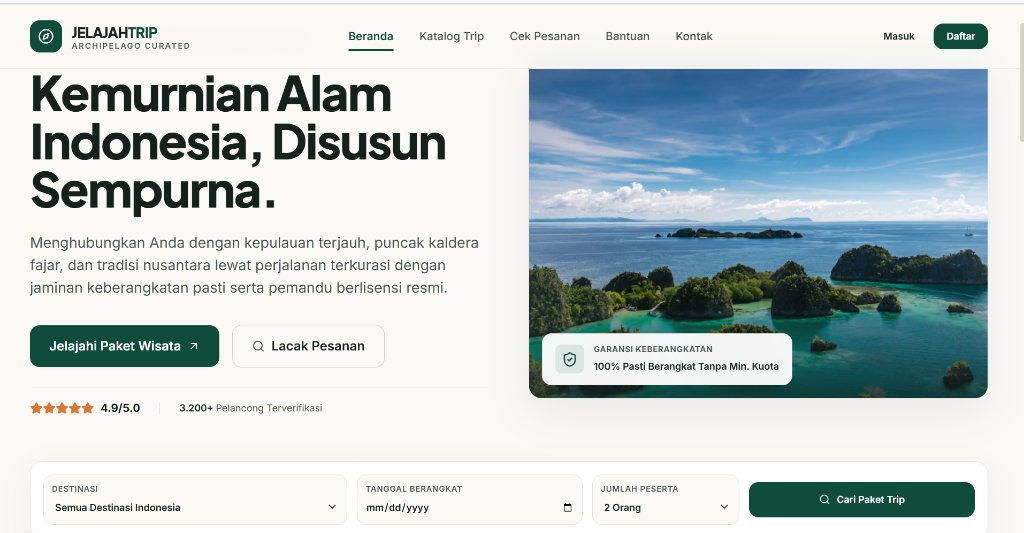
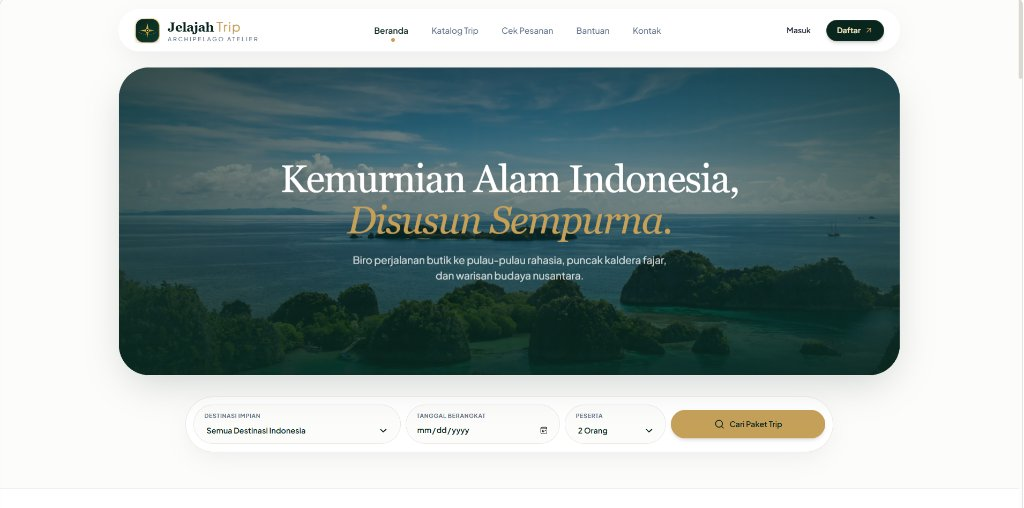
feat(projects): update Jelajah Trip screenshots and add top screenshot carousel on case study

diff --git a/src/components/ui/ProjectGalleryCarousel.tsx b/src/components/ui/ProjectGalleryCarousel.tsx
@@ -1,0 +1,148 @@
+"use client";
+
+import React, { useState, useRef } from "react";
+import { ChevronLeft, ChevronRight } from "lucide-react";
+import { ProjectScreenshot } from "@/types";
+import { ProjectImage } from "@/components/ui/ProjectImage";
+import { cn } from "@/lib/utils";
+
+interface ProjectGalleryCarouselProps {
+  screenshots: ProjectScreenshot[];
+  fallbackImage: string;
+  projectTitle: string;
+}
+
+export const ProjectGalleryCarousel: React.FC<ProjectGalleryCarouselProps> = ({
+  screenshots,
+  fallbackImage,
+  projectTitle,
+}) => {
+  const [activeIndex, setActiveIndex] = useState(0);
+  const touchStartX = useRef<number | null>(null);
+
+  const items: ProjectScreenshot[] =
+    screenshots.length > 0
+      ? screenshots
+      : [
+          {
+            src: fallbackImage,
+            alt: `${projectTitle} preview illustration`,
+            width: 800,
+            height: 450,
+          },
+        ];
+
+  const total = items.length;
+  const current = items[activeIndex] ?? items[0];
+
+  const goTo = (index: number) => {
+    setActiveIndex((index + total) % total);
+  };
+
+  const handleTouchStart = (e: React.TouchEvent) => {
+    touchStartX.current = e.touches[0]?.clientX ?? null;
+  };
+
+  const handleTouchEnd = (e: React.TouchEvent) => {
+    if (touchStartX.current === null || total <= 1) return;
+    const endX = e.changedTouches[0]?.clientX ?? touchStartX.current;
+    const diff = touchStartX.current - endX;
+    if (Math.abs(diff) > 40) {
+      goTo(diff > 0 ? activeIndex + 1 : activeIndex - 1);
+    }
+    touchStartX.current = null;
+  };
+
+  const handleKeyDown = (e: React.KeyboardEvent) => {
+    if (total <= 1) return;
+    if (e.key === "ArrowLeft") {
+      e.preventDefault();
+      goTo(activeIndex - 1);
+    } else if (e.key === "ArrowRight") {
+      e.preventDefault();
+      goTo(activeIndex + 1);
+    }
+  };
+
+  return (
+    <div
+      className="mb-12"
+      tabIndex={total > 1 ? 0 : undefined}
+      onKeyDown={handleKeyDown}
+      aria-roledescription={total > 1 ? "carousel" : undefined}
+      aria-label={`${projectTitle} screenshots`}
+    >
+      <div
+        className="relative aspect-video w-full rounded-2xl overflow-hidden border border-slate-200/90 shadow-sm bg-slate-50 group"
+        onTouchStart={handleTouchStart}
+        onTouchEnd={handleTouchEnd}
+      >
+        <ProjectImage
+          key={current.src}
+          src={current.src}
+          fallbackSrc={fallbackImage}
+          alt={current.alt}
+          width={current.width}
+          height={current.height}
+          sizes="(max-width: 1024px) 100vw, 896px"
+          priority={activeIndex === 0}
+          className="w-full h-full object-contain"
+        />
+
+        {total > 1 && (
+          <>
+            <button
+              type="button"
+              onClick={() => goTo(activeIndex - 1)}
+              aria-label="Previous screenshot"
+              className="absolute left-3 top-1/2 -translate-y-1/2 w-9 h-9 rounded-full bg-white/90 hover:bg-white border border-slate-200/90 text-slate-700 hover:text-slate-900 shadow-sm flex items-center justify-center transition-all cursor-pointer active:scale-95 focus-visible:outline-none focus-visible:ring-2 focus-visible:ring-blue-600"
+            >
+              <ChevronLeft className="w-5 h-5" />
+            </button>
+
+            <button
+              type="button"
+              onClick={() => goTo(activeIndex + 1)}
+              aria-label="Next screenshot"
+              className="absolute right-3 top-1/2 -translate-y-1/2 w-9 h-9 rounded-full bg-white/90 hover:bg-white border border-slate-200/90 text-slate-700 hover:text-slate-900 shadow-sm flex items-center justify-center transition-all cursor-pointer active:scale-95 focus-visible:outline-none focus-visible:ring-2 focus-visible:ring-blue-600"
+            >
+              <ChevronRight className="w-5 h-5" />
+            </button>
+          </>
+        )}
+      </div>
+
+      {total > 1 && (
+        <div className="mt-3 flex flex-col sm:flex-row sm:items-center justify-between gap-2 px-1">
+          <p className="text-xs text-slate-600 font-medium">
+            {current.caption || current.alt}
+          </p>
+
+          <div className="flex items-center gap-3 self-end sm:self-auto">
+            <div className="flex items-center gap-1.5" role="tablist" aria-label="Select screenshot">
+              {items.map((item, idx) => (
+                <button
+                  key={item.src}
+                  type="button"
+                  role="tab"
+                  aria-selected={idx === activeIndex}
+                  aria-label={`View screenshot ${idx + 1} of ${total}`}
+                  onClick={() => goTo(idx)}
+                  className={cn(
+                    "h-2 rounded-full transition-all cursor-pointer focus-visible:outline-none focus-visible:ring-2 focus-visible:ring-blue-600",
+                    idx === activeIndex
+                      ? "w-6 bg-blue-600"
+                      : "w-2 bg-slate-300 hover:bg-slate-400"
+                  )}
+                />
+              ))}
+            </div>
+            <span className="text-xs font-mono text-slate-600">
+              {activeIndex + 1} / {total}
+            </span>
+          </div>
+        </div>
+      )}
+    </div>
+  );
+};

diff --git a/src/app/projects/[slug]/page.tsx b/src/app/projects/[slug]/page.tsx
@@ -13,12 +13,12 @@ import {
   Link2,
 } from "lucide-react";
 import { PROJECTS, getProjectBySlug } from "@/data/portfolio";
-import { getAvailableScreenshots, getPrimaryProjectImage } from "@/lib/assets";
+import { getAvailableScreenshots } from "@/lib/assets";
 import { Navbar } from "@/components/layout/Navbar";
 import { Footer } from "@/components/layout/Footer";
 import { Button } from "@/components/ui/Button";
 import { GithubIcon } from "@/components/ui/Icons";
-import { ProjectImage } from "@/components/ui/ProjectImage";
+import { ProjectGalleryCarousel } from "@/components/ui/ProjectGalleryCarousel";
 import { ScrollReveal } from "@/components/ui/ScrollReveal";
 
 interface ProjectPageProps {
@@ -67,7 +67,6 @@ export default async function ProjectDetailPage({ params }: ProjectPageProps) {
     notFound();
   }
 
-  const primaryImage = getPrimaryProjectImage(project);
   const availableScreenshots = getAvailableScreenshots(project);
 
   const hasRealText = (value?: string): value is string =>
@@ -167,20 +166,13 @@ export default async function ProjectDetailPage({ params }: ProjectPageProps) {
             </header>
           </ScrollReveal>
 
-          {/* Primary Project Preview Image */}
+          {/* Project Screenshots Carousel (Top Preview) */}
           <ScrollReveal delay={0.12} duration={0.5}>
-            <div className="mb-12 relative aspect-video w-full rounded-2xl overflow-hidden border border-slate-200/90 shadow-sm bg-slate-50">
-              <ProjectImage
-                src={primaryImage.src}
-                fallbackSrc={project.fallbackImage}
-                alt={primaryImage.alt}
-                width={primaryImage.width}
-                height={primaryImage.height}
-                sizes="(max-width: 1024px) 100vw, 896px"
-                priority
-                className="w-full h-full object-contain"
-              />
-            </div>
+            <ProjectGalleryCarousel
+              screenshots={availableScreenshots}
+              fallbackImage={project.fallbackImage}
+              projectTitle={project.title}
+            />
           </ScrollReveal>
 
           {/* Project Details Content Grid */}
@@ -288,40 +280,6 @@ export default async function ProjectDetailPage({ params }: ProjectPageProps) {
                     <p className="text-sm sm:text-base text-slate-600 leading-relaxed">
                       {project.result}
                     </p>
-                  </section>
-                </ScrollReveal>
-              )}
-
-              {/* Screenshot Gallery (2-3 desktop/mobile images if available in public/images/projects/) */}
-              {availableScreenshots.length > 0 && (
-                <ScrollReveal delay={0.24}>
-                  <section>
-                    <h2 className="text-xl font-bold text-slate-900 mb-4">
-                      Screenshots
-                    </h2>
-                    <div className="grid grid-cols-1 sm:grid-cols-2 gap-4">
-                      {availableScreenshots.map((shot) => (
-                        <figure
-                          key={shot.src}
-                          className="bg-slate-50 border border-slate-200/80 rounded-xl overflow-hidden"
-                        >
-                          <ProjectImage
-                            src={shot.src}
-                            fallbackSrc={project.fallbackImage}
-                            alt={shot.alt}
-                            width={shot.width}
-                            height={shot.height}
-                            sizes="(max-width: 640px) 100vw, 440px"
-                            className="w-full h-auto object-cover"
-                          />
-                          {shot.caption && (
-                            <figcaption className="px-3.5 py-2.5 text-xs text-slate-600 border-t border-slate-200/60">
-                              {shot.caption}
-                            </figcaption>
-                          )}
-                        </figure>
-                      ))}
-                    </div>
                   </section>
                 </ScrollReveal>
               )}

diff --git a/src/data/portfolio.ts b/src/data/portfolio.ts
@@ -216,24 +216,40 @@ export const PROJECTS: Project[] = [
     screenshots: [
       {
         src: "/images/projects/jelajah-trip-desktop.jpg",
-        alt: "Jelajah Trip homepage hero section with coastal destination photo and trip search bar",
-        caption: "Homepage & Trip Search Filter (Desktop)",
+        alt: "Jelajah Trip homepage hero with archipelago banner, floating navbar, and destination search bar",
+        caption: "Homepage Hero & Trip Search Filter (Desktop)",
         device: "desktop",
         width: 1024,
         height: 540,
       },
       {
         src: "/images/projects/jelajah-trip-destinations.jpg",
-        alt: "Jelajah Trip destination gallery cards featuring Raja Ampat, Labuan Bajo, Bromo, Nusa Penida, Danau Toba, and Yogyakarta",
-        caption: "Curated Indonesian Destinations Catalog (Desktop)",
+        alt: "Jelajah Trip Indonesian destinations gallery featuring Raja Ampat, Labuan Bajo, Bromo, Nusa Penida, Danau Toba, and Yogyakarta",
+        caption: "Curated Indonesian Destinations Gallery (Desktop)",
         device: "desktop",
         width: 1024,
         height: 540,
       },
       {
-        src: "/images/projects/jelajah-trip-auth.png",
-        alt: "Jelajah Trip split-screen login page with email and password form",
-        caption: "Account Authentication Flow (Desktop)",
+        src: "/images/projects/jelajah-trip-packages.jpg",
+        alt: "Jelajah Trip featured package cards displaying trip durations, remaining seat quota badges, ratings, and pricing",
+        caption: "Featured Trip Packages & Quota Badges (Desktop)",
+        device: "desktop",
+        width: 1024,
+        height: 540,
+      },
+      {
+        src: "/images/projects/jelajah-trip-reviews.png",
+        alt: "Jelajah Trip traveler reviews section with star ratings and destination tags",
+        caption: "Traveler Reviews Section (Desktop)",
+        device: "desktop",
+        width: 1024,
+        height: 540,
+      },
+      {
+        src: "/images/projects/jelajah-trip-cta.jpg",
+        alt: "Jelajah Trip private expedition consultation section with WhatsApp link and dark green footer",
+        caption: "Consultation Call-to-Action & Footer (Desktop)",
         device: "desktop",
         width: 1024,
         height: 540,
